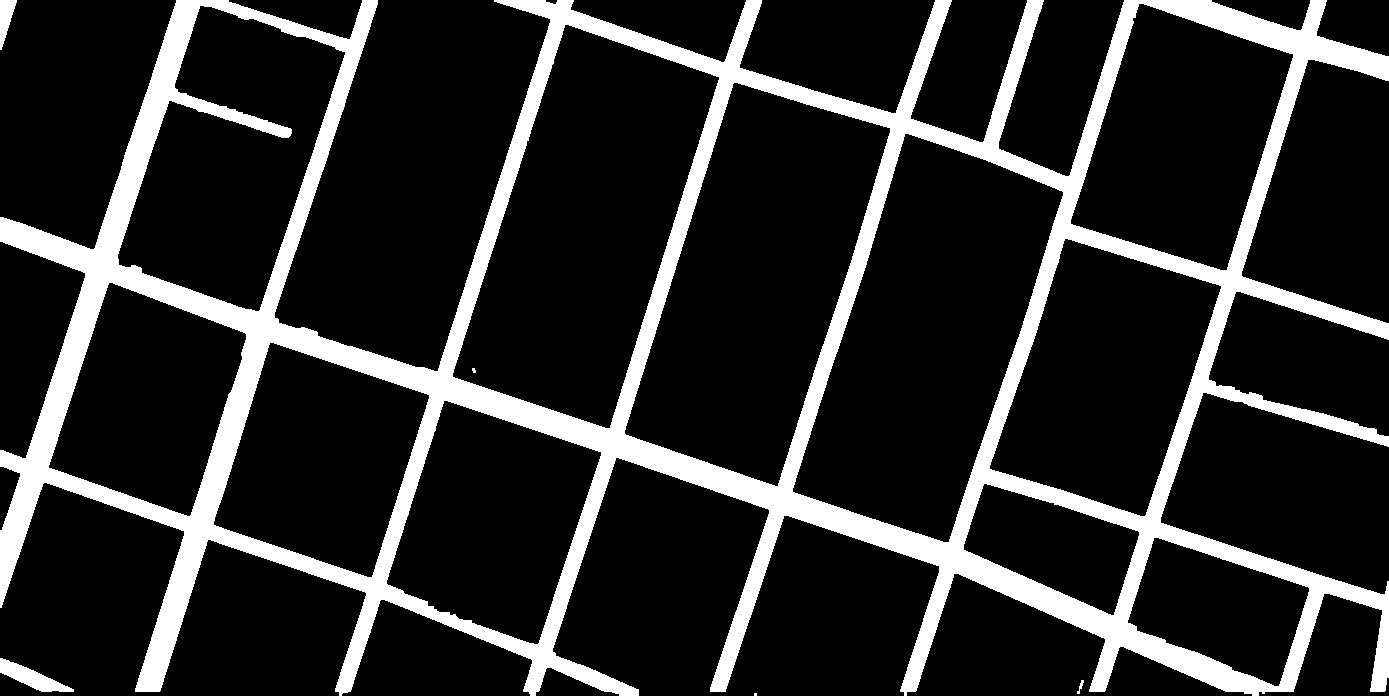
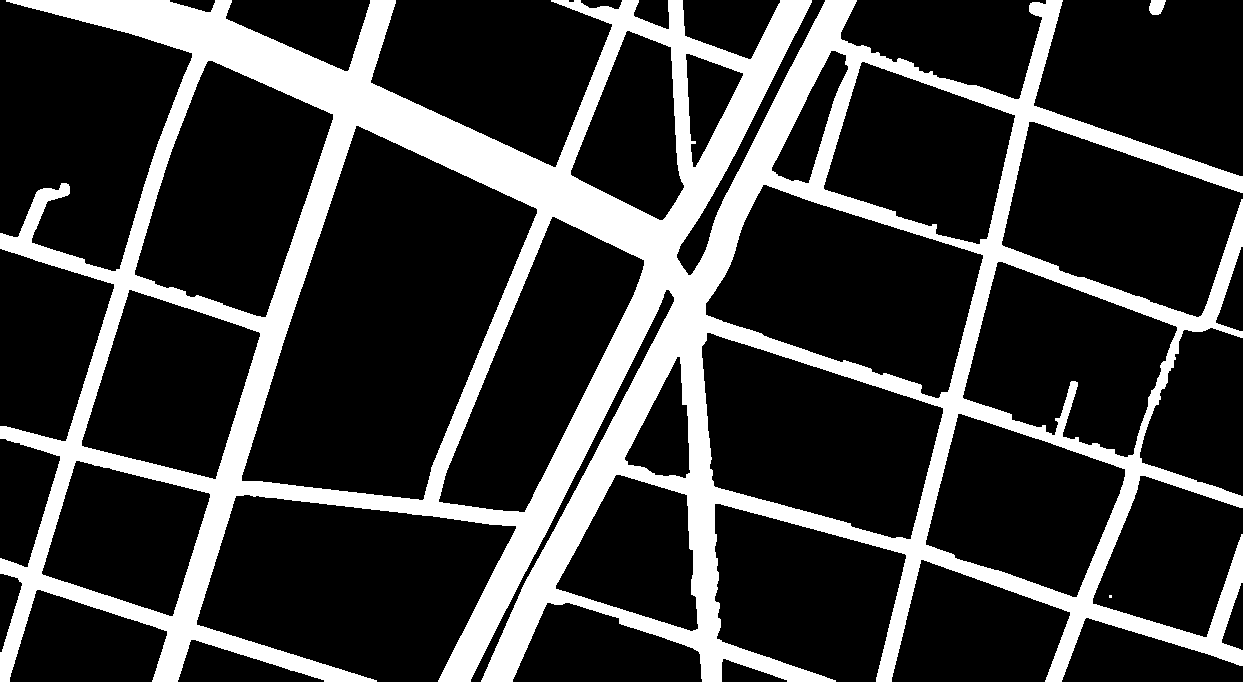
added VerticesConectados function and euclidian distance

diff --git a/Primm/primm (bueno).py b/Primm/primm (bueno).py
@@ -108,7 +108,63 @@ plt.show()
 def DistanciaEuclidiana(x1, x2):
     return np.sqrt(np.sum((x1 - x2)**2))
 
+# funcion para saber si dos vertices o nodos se pueden conectar
+# lo que se hace en este caso es que en vez de checar posiciones entre los nodos, se checa toda la linea posible desde un nodo a-
+# otro. lo anterior se hace ya que hay problemas si solo se checan ciertos puntos, por lo que mejor es usar un algoritmo para-
+# poder checar la linea completa
 
+# usamos linspace, lo cual hace que sea bastante facil obtener una linea recta entre dos puntos, y simplemente podemos ir-
+# iterando e ir checando cada punto para estar seguros de que todos los puntos y la linea es correcta para poder conectar-
+# dos nodos
+def VerticesConectados(mascara, x1, x2):
+    # el orden de estas variables importa bastante. tiene que ser como estan
+    vertice_y1, vertice_x1 = x1
+    vertice_y2, vertice_x2 = x2
+    
+    puntos_linea = 0
+    
+    # sacamos el numero de puntos maximo entre los dos vertices, esto para que con linspace tengamos este numero de puntos para-
+    # iterar
+    # como no se puede usar la funcion max(), se saca manualmente esta parte
+    diferencia_y = abs(vertice_y2 - vertice_y1) + 1
+    diferencia_x = abs(vertice_x2 - vertice_x1) + 1
+
+    if diferencia_y > diferencia_x:
+        puntos_linea = diferencia_y
+    else:
+        puntos_linea = diferencia_x
+    
+    # usamos linspace para generar dichos puntos a traves de los dos vertices, usando la variable de pasos 
+    linea_x = np.linspace(vertice_x1, vertice_x2, puntos_linea, dtype=int)
+    linea_y = np.linspace(vertice_y1, vertice_y2, puntos_linea, dtype=int)
+    
+    # despues podemos iterar a traves de los puntos y checar las condiciones para decidir si devolver false o true.
+    for punto_x, punto_y in zip(linea_x, linea_y):
+        
+        # si el punto que estamos checando se sale del limite devolvemos false, o si es que es igual al tamaño de la mascara.shape-
+        # respectivamente para tanto x como para y
+        if(punto_x < 0 or punto_x >= mascara.shape[1]):
+            return False
+        
+        if(punto_y < 0 or punto_y >= mascara.shape[0]):
+            return False
+        
+        # si el punto de la mascara es cero (negro) se devuelve falso
+        if mascara[punto_y, punto_x] == 0:
+            return False
+            
+    return True
+
+        
+        
+        
+        
+        
+    
+    
+    
+    
+    
 
 
 
